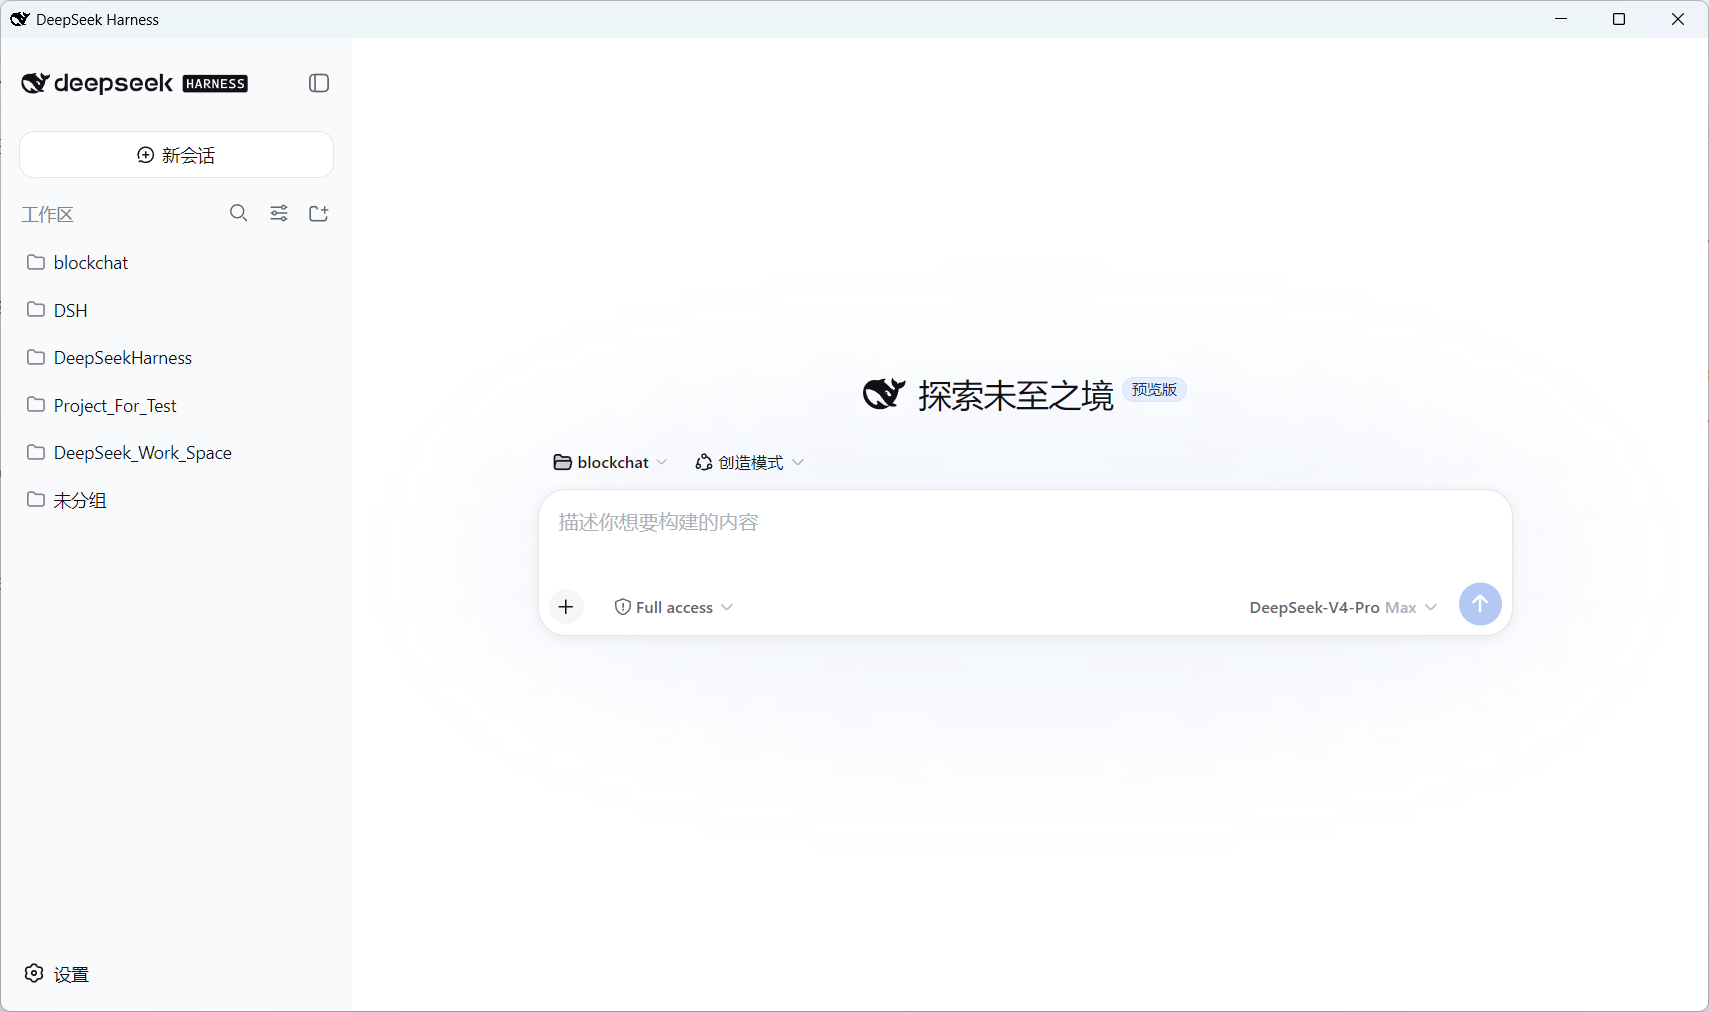
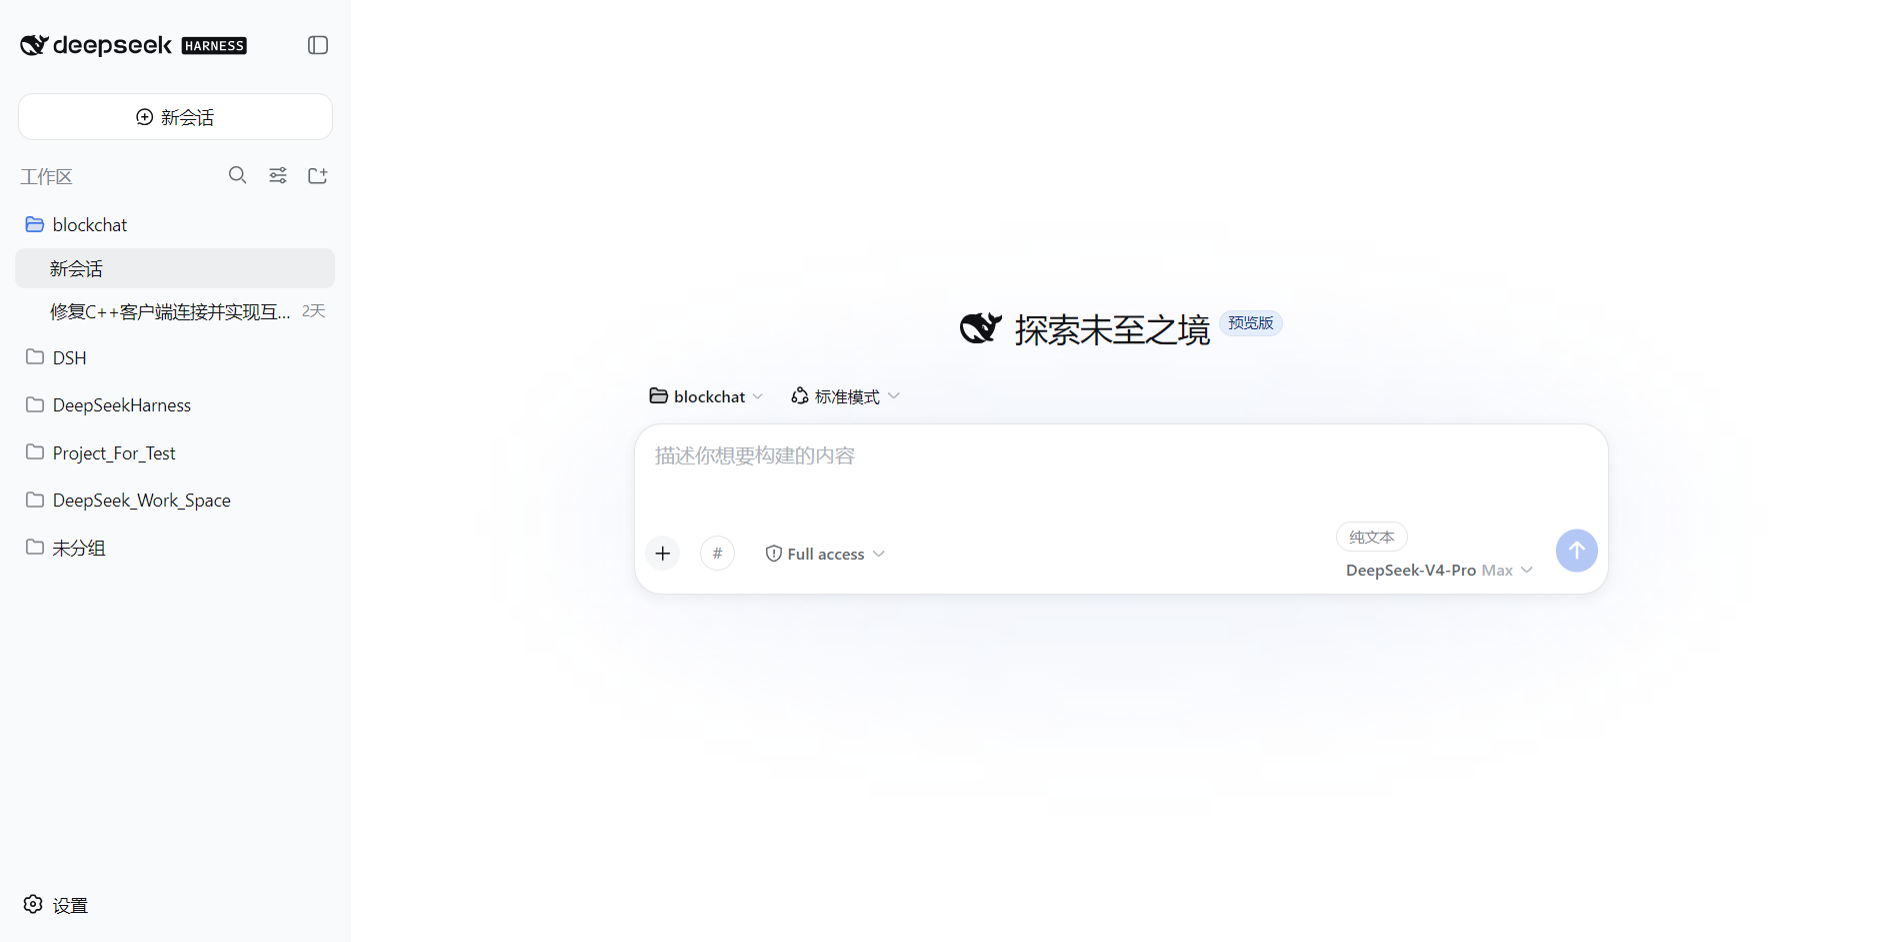
1.3.2: fix list rendering (replaceChildren spread), full plugin annotations (dsh-/cordis- display names), chat-enhance DOM-ready guard; site media.php packaged fallback + 4 screenshots

diff --git a/renderer/desktop-ui.js b/renderer/desktop-ui.js
@@ -514,8 +514,8 @@ function init(ipcRenderer) {
 
     const paintProviders = (providers) => {
       providersCache = providers
-      listHost.replaceChildren(providers.length === 0
-        ? el('p', { class: 'dshdx-caption', text: '尚未添加第三方 Provider。点击下方按钮接入其它模型（含多模态视觉模型）。' })
+      listHost.replaceChildren(...(providers.length === 0
+        ? [el('p', { class: 'dshdx-caption', text: '尚未添加第三方 Provider。点击下方按钮接入其它模型（含多模态视觉模型）。' })]
         : providers.map((provider) => el('div', { class: 'dshdx-card' },
             el('div', { class: 'dshdx-cardhead' },
               el('span', { class: 'dshdx-cardtitle', text: provider.displayName || provider.id }),
@@ -533,7 +533,7 @@ function init(ipcRenderer) {
             ),
             el('p', { class: 'dshdx-caption', text: provider.upstreamBaseURL }),
             el('div', { class: 'dshdx-rowline' }, provider.models.map((model) => tag(`${model.id}${model.input?.includes('image') ? ' · 视觉' : ''}`, model.input?.includes('image') ? 'dshdx-tag-ok' : ''))),
-          )))
+          ))))
     }
     call('providers:list').then(paintProviders).catch(() => {})
 
@@ -673,11 +673,10 @@ function init(ipcRenderer) {
     const ghResults = el('div', { class: 'dshdx-stack' })
     const ghSearch = async () => {
       ghResults.replaceChildren(el('p', { class: 'dshdx-caption', text: '正在搜索 GitHub…' }))
-      void 0
       try {
         const results = await call('skills:searchGitHub', { query: ghQuery.value })
-        ghResults.replaceChildren(results.length === 0
-          ? el('p', { class: 'dshdx-caption', text: '没有找到相关仓库。' })
+        ghResults.replaceChildren(...(results.length === 0
+          ? [el('p', { class: 'dshdx-caption', text: '没有找到相关仓库。' })]
           : results.map((item) => el('div', { class: 'dshdx-card' },
               el('div', { class: 'dshdx-cardhead' },
                 el('span', { class: 'dshdx-cardtitle', text: item.fullName }),
@@ -694,7 +693,7 @@ function init(ipcRenderer) {
                 ),
               ),
               item.description ? el('p', { class: 'dshdx-caption', text: item.description }) : null,
-            )))
+            ))))
       } catch { /* safely already toasted */ ghResults.replaceChildren() }
     }
 
@@ -730,8 +729,8 @@ function init(ipcRenderer) {
     const paintItems = () => {
       const keyword = searchInput.value.trim().toLowerCase()
       const items = skillsData.items.filter((item) => keyword === '' || item.name.toLowerCase().includes(keyword) || (item.description ?? '').toLowerCase().includes(keyword))
-      listHost.replaceChildren(items.length === 0
-        ? el('p', { class: 'dshdx-caption', text: '没有匹配的 Skill。' })
+      listHost.replaceChildren(...(items.length === 0
+        ? [el('p', { class: 'dshdx-caption', text: '没有匹配的 Skill。' })]
         : items.map((item) => el('div', { class: 'dshdx-card' },
             el('div', { class: 'dshdx-cardhead' },
               el('span', { class: 'dshdx-cardtitle', text: item.name }),
@@ -755,7 +754,7 @@ function init(ipcRenderer) {
             item.shadowedBy ? el('p', { class: 'dshdx-issue', text: `被 ${item.shadowedBy} 中的同名技能遮蔽，当前不生效。` }) : null,
             ...item.issues.map((issue) => el('p', { class: 'dshdx-issue', text: issue })),
             el('p', { class: 'dshdx-path', text: item.path }),
-          )))
+          ))))
     }
     const paintSkills = (data) => {
       skillsData = data
@@ -806,8 +805,8 @@ function init(ipcRenderer) {
 
     const paint = (data) => {
       mcpState = data
-      listHost.replaceChildren(data.servers.length === 0
-        ? el('p', { class: 'dshdx-caption', text: '尚未配置 MCP 服务器。添加后以官方 mcp-client 插件注入，模型可直接调用其工具（mcp__<名称>__<工具>）。' })
+      listHost.replaceChildren(...(data.servers.length === 0
+        ? [el('p', { class: 'dshdx-caption', text: '尚未配置 MCP 服务器。添加后以官方 mcp-client 插件注入，模型可直接调用其工具（mcp__<名称>__<工具>）。' })]
         : data.servers.map((server) => {
             const resultLine = el('p', { class: 'dshdx-caption' })
             const testButton = btn('测试连接', 'secondary', async () => {
@@ -844,7 +843,7 @@ function init(ipcRenderer) {
               el('p', { class: 'dshdx-caption', text: server.transport === 'stdio' ? server.command : server.url }),
               resultLine,
             )
-          }))
+          })))
     }
     call('mcp:state').then(paint).catch(() => {})
 
@@ -972,15 +971,15 @@ function init(ipcRenderer) {
       balanceHost.replaceChildren(el('p', { class: 'dshdx-caption', text: '正在查询各 Provider 账户余额…' }))
       try {
         const rows = await call('providers:balances')
-        balanceHost.replaceChildren(rows.length === 0
-          ? el('p', { class: 'dshdx-caption', text: '尚未配置任何 Provider。请先在「模型与多模态」中添加并保存 API Key。' })
+        balanceHost.replaceChildren(...(rows.length === 0
+          ? [el('p', { class: 'dshdx-caption', text: '尚未配置任何 Provider。请先在「模型与多模态」中添加并保存 API Key。' })]
           : rows.map((row) => el('div', { class: 'dshdx-rowline' },
               el('span', { class: 'dshdx-cardtitle', text: row.displayName ?? row.id }),
               row.gateway ? tag('经网关') : null,
               row.balance != null
                 ? el('span', { class: 'dshdx-cardtitle', style: 'margin-left:auto', text: row.balance })
                 : el('span', { class: 'dshdx-caption', style: 'margin-left:auto', text: row.note ?? '该服务商不支持余额查询' }),
-            )))
+            ))))
       } catch {
         balanceHost.replaceChildren(el('p', { class: 'dshdx-caption', text: '余额查询失败，请稍后重试。' }))
       }
@@ -989,7 +988,7 @@ function init(ipcRenderer) {
     async function refreshStats() {
       try {
         const stats = await call('usage:stats')
-        statsHost.replaceChildren(
+        statsHost.replaceChildren(...[
           el('div', { class: 'dshdx-rowline', style: 'align-items:stretch' },
             sumRow('今日', stats.today), sumRow('近 7 日', stats.week), sumRow('累计', stats.total)),
           stats.models.length > 0
@@ -1000,14 +999,14 @@ function init(ipcRenderer) {
                   el('span', { class: 'dshdx-caption', style: 'margin-left:auto', text: `${m.requests} 次 · ${fmtTokens(m.prompt + m.completion)} tokens${m.cost != null ? ` · ≈ ¥${m.cost.toFixed(3)}` : ''}` }),
                 ))))
             : null,
-        )
-        recentHost.replaceChildren(stats.recent.length === 0
-          ? el('p', { class: 'dshdx-caption', text: '暂无用量记录。经本地翻译网关发出的请求会自动记录 token 用量。' })
+        ].filter(Boolean))
+        recentHost.replaceChildren(...(stats.recent.length === 0
+          ? [el('p', { class: 'dshdx-caption', text: '暂无用量记录。经本地翻译网关发出的请求会自动记录 token 用量。' })]
           : stats.recent.map((r) => el('div', { class: 'dshdx-rowline' },
               el('span', { class: 'dshdx-caption', text: new Date(r.ts).toLocaleString() }),
               el('span', { class: 'dshdx-sub', text: `${r.providerId} / ${r.model}` }),
               el('span', { class: 'dshdx-caption', style: 'margin-left:auto', text: `输入 ${fmtTokens(r.promptTokens)} · 输出 ${fmtTokens(r.completionTokens)}${r.cost != null ? ` · ≈ ¥${r.cost.toFixed(4)}` : ''}` }),
-            )))
+            ))))
       } catch {
         statsHost.replaceChildren(el('p', { class: 'dshdx-caption', text: '用量统计读取失败。' }))
       }

diff --git a/main/lib/plugin-explainer.js b/main/lib/plugin-explainer.js
@@ -201,6 +201,16 @@ const CURATED = {
   'dsh-workspace': { category: '基础', text: '工作区管理：项目目录的登记与切换。' },
 }
 
+/** Curated explanations for Cordis framework plugins (displayed without the cordis-plugin- prefix). */
+const CURATED_CORDIS = {
+  'cordis': { category: '基础', text: 'Cordis 插件框架内核：插件生命周期、上下文与事件总线。' },
+  'cordis-plugin-group': { category: '基础', text: 'Cordis 插件分组：把相关插件编组统一启停。' },
+  'cordis-plugin-hmr': { category: '基础', text: 'Cordis 插件热更新：开发期改动插件无需重启即可生效。' },
+  'cordis-plugin-include': { category: '基础', text: 'Cordis 插件组合复用：把一组插件配置打包引用，避免重复装配。' },
+  'cordis-plugin-loader': { category: '基础', text: 'Cordis 插件加载器：按清单发现、解析并装载插件包。' },
+  'cordis-plugin-timer': { category: '基础', text: 'Cordis 定时器服务：为插件提供延时与周期任务能力。' },
+}
+
 /** Human-readable category order. */
 const CATEGORY_ORDER = ['入口', '基础', '界面', '模型', '智能体', '工具', '扩展', '命令', '任务', '会话', '上下文', '多模态', '其它']
 
@@ -247,7 +257,10 @@ function catalog() {
     let entries = []
     try { entries = fs.readdirSync(base, { withFileTypes: true }) } catch { continue }
     for (const entry of entries) {
-      if (!entry.isDirectory() || !entry.name.startsWith('dsh')) continue
+      if (!entry.isDirectory()) continue
+      const isDsh = entry.name.startsWith('dsh')
+      const isCordis = entry.name === 'cordis' || entry.name.startsWith('cordis-plugin-')
+      if (!isDsh && !isCordis) continue
       if (found.has(entry.name)) continue
       const dir = path.join(base, entry.name)
       let version = null
@@ -257,13 +270,15 @@ function catalog() {
         version = typeof manifest.version === 'string' ? manifest.version : null
         description = typeof manifest.description === 'string' ? manifest.description : ''
       } catch { /* partial install */ }
-      const curated = CURATED[entry.name]
+      const curated = isCordis ? CURATED_CORDIS[entry.name] : CURATED[entry.name]
+      const summary = curated?.text ?? description ?? firstParagraphOfReadme(dir)
+      if (summary === '') continue
       found.set(entry.name, {
         name: entry.name,
         package: `@deepseek-ai/${entry.name}`,
         version,
-        category: curated?.category ?? guessCategory(entry.name),
-        summary: curated?.text ?? description ?? firstParagraphOfReadme(dir),
+        category: curated?.category ?? (isCordis ? '基础' : guessCategory(entry.name)),
+        summary,
         curated: Boolean(curated),
       })
     }

diff --git a/renderer/chat-enhance.js b/renderer/chat-enhance.js
@@ -339,8 +339,14 @@ function init(ipcRenderer) {
       pluginNotes = { at: Date.now(), map: new Map() }
       for (const item of data.items) {
         if (item.curated && item.summary) {
-          pluginNotes.map.set(item.name.toLowerCase(), item.summary)
-          pluginNotes.map.set(`@deepseek-ai/${item.name}`.toLowerCase(), item.summary)
+          const name = item.name.toLowerCase()
+          pluginNotes.map.set(name, item.summary)
+          pluginNotes.map.set(`@deepseek-ai/${name}`, item.summary)
+          // The official inventory strips well-known prefixes: dsh-agent → agent,
+          // cordis-plugin-timer → timer. Register the display forms too.
+          for (const prefix of ['dsh-', 'cordis-plugin-']) {
+            if (name.startsWith(prefix)) pluginNotes.map.set(name.slice(prefix.length), item.summary)
+          }
         }
       }
     }
@@ -353,7 +359,7 @@ function init(ipcRenderer) {
     if (pluginNotes.map.size === 0) return
     for (const dialog of document.querySelectorAll('[role="dialog"][aria-modal="true"]')) {
       if (!dialog.querySelector('nav')) continue
-      const nodes = dialog.querySelectorAll('span, div, p, a, code')
+      const nodes = dialog.querySelectorAll('span, div, p, a, code, strong, b, h1, h2, h3, h4, h5, li, button')
       for (const node of nodes) {
         if (node.dataset.dshdcNoted !== undefined) continue
         if (node.closest('.dshdx-section')) continue
@@ -702,8 +708,16 @@ function init(ipcRenderer) {
     scanTimer = setTimeout(() => { scanTimer = null; scan() }, 250)
   }
   const observer = new MutationObserver(throttledScan)
-  observer.observe(document.documentElement, { childList: true, subtree: true, characterData: true })
-  scan()
+  const startObserving = () => {
+    if (!document.documentElement) return false
+    observer.observe(document.documentElement, { childList: true, subtree: true, characterData: true })
+    scan()
+    return true
+  }
+  // Preloads run at document creation; documentElement may not exist yet.
+  if (!startObserving()) {
+    document.addEventListener('DOMContentLoaded', startObserving, { once: true })
+  }
 }
 
 module.exports = { init }

diff --git a/mirror-site/index.php b/mirror-site/index.php
@@ -31,7 +31,12 @@ if ($feed && empty($desktopHistory) && !empty($feed['version'])) {
 
 $screens = !empty($cfg['screens']) && is_array($cfg['screens'])
     ? $cfg['screens']
-    : ['assets/screens/app-main.png', 'assets/screens/app-settings.png'];
+    : ['media.php?f=screens/app-main.png', 'media.php?f=screens/app-settings.png', 'media.php?f=screens/app-plugins.png', 'media.php?f=screens/app-usage.png'];
+// The web server rewrites non-PHP paths to index.php, so any legacy
+// "assets/..." reference must go through media.php.
+$mediaUrl = fn(string $src): string => str_starts_with($src, 'assets/') ? 'media.php?f=' . substr($src, 7) : $src;
+$screens = array_map($mediaUrl, $screens);
+$cfg['qq_qr'] = $mediaUrl((string)$cfg['qq_qr']);
 ?>
 <!DOCTYPE html>
 <html lang="zh-CN">
@@ -40,7 +45,7 @@ $screens = !empty($cfg['screens']) && is_array($cfg['screens'])
 <meta name="viewport" content="width=device-width, initial-scale=1.0">
 <title>DeepSeek Harness Desktop — 桌面客户端 · 镜像与下载中心</title>
 <meta name="description" content="DeepSeek Harness Desktop：把官方 DeepSeek Harness 带到原生桌面。免 Node.js、系统托盘、多模态对话、Skill 与 MCP 可视化管理、账户与用量一览。">
-<link rel="icon" type="image/svg+xml" href="assets/dsh.svg">
+<link rel="icon" type="image/svg+xml" href="media.php?f=dsh.svg">
 <style>
 :root {
   --bg: #ffffff;
@@ -178,7 +183,7 @@ footer .sep { margin: 0 10px; color: var(--line-strong); }
 
 <nav><div class="wrap">
   <a class="brand" href="./">
-    <img src="assets/dsh.svg" alt="DeepSeek Harness">
+    <img src="media.php?f=dsh.svg" alt="DeepSeek Harness">
     DeepSeek Harness Desktop <small>镜像与下载中心</small>
   </a>
   <div class="links">
@@ -245,10 +250,12 @@ footer .sep { margin: 0 10px; color: var(--line-strong); }
     <p>官方 Web UI 原样保留，桌面能力以官方设计语言无缝融入。</p>
   </div>
   <div class="shots">
-    <?php foreach ($screens as $i => $src): ?>
+    <?php
+      $captions = ['对话主界面 · 多模态状态徽标', '设置面板 · 桌面端分区', '官方插件列表 · 内置插件中文注解', '账户与用量 · 余额与任务消耗统计'];
+      foreach ($screens as $i => $src): ?>
     <figure>
       <img src="<?= h($src) ?>" alt="DeepSeek Harness Desktop 界面截图 <?= $i + 1 ?>" loading="lazy">
-      <figcaption><?= $i === 0 ? '对话主界面' : '设置面板' ?></figcaption>
+      <figcaption><?= h($captions[$i] ?? '界面截图') ?></figcaption>
     </figure>
     <?php endforeach; ?>
   </div>

diff --git a/mirror-site/admin/index.php b/mirror-site/admin/index.php
@@ -138,7 +138,7 @@ $filesDir = ensure_files_dir();
 <meta charset="UTF-8">
 <meta name="viewport" content="width=device-width, initial-scale=1.0">
 <title>镜像与发布管理 — DeepSeek Harness Desktop</title>
-<link rel="icon" type="image/svg+xml" href="../assets/dsh.svg">
+<link rel="icon" type="image/svg+xml" href="../media.php?f=dsh.svg">
 <style>
 :root { --bg:#f7f8fa; --panel:#ffffff; --line:#e8eaee; --line2:#d8dbe2; --text:#0b0d12; --sub:#5b6270; --faint:#98a0ae; --accent:#4d6bfe; --accent-deep:#3b56e8; --err:#d64545; --ok:#12934f; }
 * { box-sizing:border-box; margin:0; padding:0; }
@@ -195,7 +195,7 @@ td form .btn { margin-top:0; padding:4px 14px; font-size:12px; }
 <body>
 <div class="wrap">
 <?php if (!$authed): ?>
-  <div class="brand" style="margin-bottom:26px"><img src="../assets/dsh.svg" alt=""><h1>镜像与发布管理</h1></div>
+  <div class="brand" style="margin-bottom:26px"><img src="../media.php?f=dsh.svg" alt=""><h1>镜像与发布管理</h1></div>
   <div class="card" style="max-width:400px">
     <?php if ($err): ?><p class="err"><?= h($err) ?></p><?php endif; ?>
     <form method="post">
@@ -207,7 +207,7 @@ td form .btn { margin-top:0; padding:4px 14px; font-size:12px; }
   </div>
 <?php else: ?>
   <div class="topbar">
-    <div class="brand"><img src="../assets/dsh.svg" alt=""><h1>镜像与发布管理</h1></div>
+    <div class="brand"><img src="../media.php?f=dsh.svg" alt=""><h1>镜像与发布管理</h1></div>
     <form method="post"><button class="btn secondary" type="submit" name="logout" value="1">退出登录</button></form>
   </div>
   <?php if ($msg): ?><p class="msg"><?= h($msg) ?></p><?php endif; ?>

diff --git a/mirror-site/media.php b/mirror-site/media.php
@@ -1,10 +1,27 @@
 <?php
-/** Serve admin-managed images from files/assets/ with proper MIME types. */
+/** Serve images with proper MIME types. Resolution order:
+ *  1. files/assets/<f>   — admin-managed copy (wins when present)
+ *  2. assets/<f>         — packaged copy shipped with the site
+ * The web server rewrites non-PHP paths to index.php, so packaged assets
+ * must be reached through this script as well (media.php?f=...). */
 require __DIR__ . '/lib.php';
 
-$rel = $_GET['f'] ?? '';
-$full = resolve_download('assets/' . str_replace('\\', '/', (string)$rel));
-if (!$full || !str_starts_with(str_replace('\\', '/', $full), str_replace('\\', '/', files_dir()) . '/assets/')) {
+$rel = str_replace('\\', '/', (string)($_GET['f'] ?? ''));
+if ($rel === '' || !preg_match('#^[A-Za-z0-9._-]+(/[A-Za-z0-9._-]+)*$#', $rel)) {
+    http_response_code(404);
+    exit('not found');
+}
+
+$full = resolve_download('assets/' . $rel);
+if (!$full) {
+    $base = realpath(__DIR__ . '/assets');
+    $real = realpath(__DIR__ . '/assets/' . $rel);
+    if ($base && $real && is_file($real)
+        && str_starts_with(str_replace('\\', '/', $real), str_replace('\\', '/', $base) . '/')) {
+        $full = $real;
+    }
+}
+if (!$full) {
     http_response_code(404);
     exit('not found');
 }

diff --git a/README.md b/README.md
@@ -7,6 +7,12 @@
 
 ## 1.3.x 新特性
 
+**1.3.2**
+
+- **修复「账户与用量」等列表渲染**：修复设置面板中余额列表、最近任务消耗、Provider 列表、Skill 列表、MCP 服务器列表、GitHub 搜索结果在特定数据下渲染为 `[object HTMLDivElement]` 的问题。
+- **插件注解全量覆盖**：官方插件列表的注解匹配兼容官方显示名（自动剥离 `dsh-` / `cordis-plugin-` 前缀），随包 160 个插件中 120 个获得内联中文说明（含 Cordis 框架插件）。
+- **修复对话流增强偶发不生效**：修复 preload 早期执行时 `document.documentElement` 尚未就绪导致多模态拦截/插件注解偶发不注入的问题。
+
 **1.3.1**
 
 - **多模态直接集成官方对话流**：不再有任何独立窗口或模块。当前模型支持图片时一切照常；纯文本模型在上传图片/视频的瞬间即被拦截，并给出可一键切换的多模态模型建议（或一键为该模型开启图片输入）。
